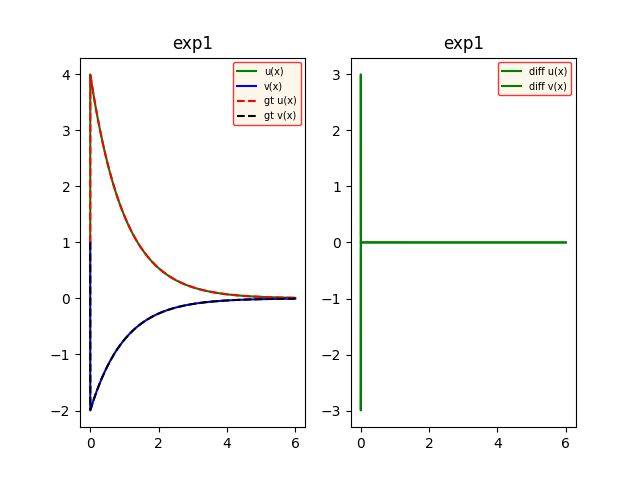
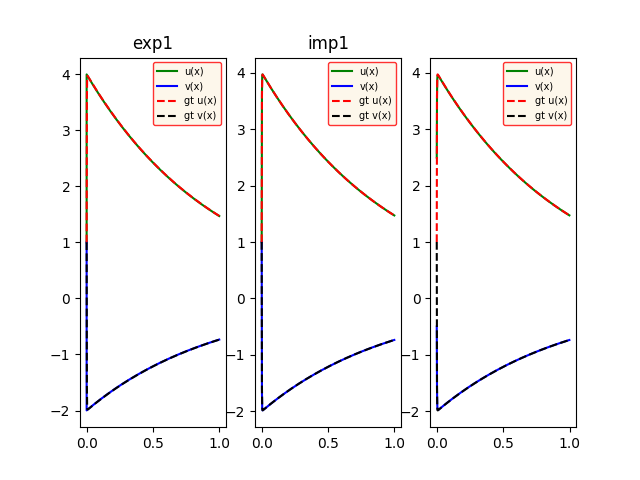
added a newtown method for constant factors

diff --git a/task8/task8.py b/task8/task8.py
@@ -11,11 +11,9 @@ lambda2/lambda1 = 1000 -> система жесткая
 общее решение:
 u(x) = a * 2*exp(-x) + b * exp(-1000*x)
 v(x) = a * -exp(-x) + b * -exp(-1000*x)
-
-пусть при x = 0 u(0) = v(0) = 1
-Тогда а = 2, b = -3
-
 """
+
+# TODO сделать методом Ньютона как в методичке, чтобы сходимость была за одну итерацию
 
 import matplotlib.pyplot as plt
 import numpy as np
@@ -23,9 +21,9 @@ import typing
 
 a, b, c, d = 998, 1998, -999, -1999
 x0, u0, v0 = 0, 1, 1
-lambda_max = 1000  # -1000
+lambda_max = 1000
 
-x_min, x_max = 0, 6
+x_min, x_max = 0, 1
 
 
 class Solution(typing.NamedTuple):
@@ -50,11 +48,11 @@ def dif_v(u: float, v: float) -> float:
 def linear_solution(x: list) -> Solution:
 
     u, v = [], []
-
+    a = u0 + v0
+    b = -(u0 + 2*v0)
     for i in range(len(x)):
-        u.append(4.0 * np.exp(-1 * x[i]) - 3.0 * np.exp(-1000*x[i]))
-        v.append(-2.0 * np.exp(-1 * x[i]) + 3.0 * np.exp(-1000*x[i]))
-
+        u.append(2.0 * a * np.exp(-1 * x[i]) + b * np.exp(-1000*x[i]))
+        v.append(-1.0 * a * np.exp(-1 * x[i]) - b * np.exp(-1000*x[i]))
     return Solution(name='gt', u=u, v=v, x=x)
 
 
@@ -63,10 +61,8 @@ def explicit_first_scheme() -> Solution:
     y_n+1 = y_n + h*f(x_n, y_n)
     """
     x, u, v = [x0], [u0], [v0]
-
     n = lambda_max * x_max
     h = np.float64(x_max) / np.float64(n)
-
     for i in range(n+1):
         u.append(u[i] + h * dif_u(u=u[i], v=v[i]))
         v.append(v[i] + h * dif_v(u=u[i], v=v[i]))
@@ -95,46 +91,68 @@ def implicit_first_scheme() -> Solution:
     for i in range(num_steps):
         y.append(C * y[i])
 
-    # y = [(y[i][0].item(), y[i][1].item()) for i in range(len(y))]
-    # print(y[40][0])
-
     u = [np.float64(y[i][0]) for i in range(len(y))]
     v = [np.float64(y[i][1]) for i in range(len(y))]
 
     return Solution(name='imp1', u=u, v=v, x=x)
 
 
-def run() -> None:
-    fig, axs = plt.subplots(nrows=1, ncols=2)
+def newtown():
+    """
+    f = 998u + 1998v
+    g = -999u - 1999v
+    """
+    f_u, f_v, g_u, g_v = 998, 1998, -999, -1999
+    n = lambda_max * x_max
+    h = np.float64(x_max) / np.float64(n)
+    x = np.arange(x_min, x_max, h)
+    E = np.eye(2)
+    J = np.matrix([[f_u, f_v], [g_u, g_v]])   # constant
+    A = np.linalg.inv(E - h*J)
 
-    solution = explicit_first_scheme()
-    axs[0].plot(solution.x, solution.u, label='u(x)', color='green')
-    axs[0].plot(solution.x, solution.v, label='v(x)', color='blue')
-    gt = linear_solution(solution.x)
+    u, v = [u0], [v0]
+
+    for i in range(len(x)):
+        res = np.matrix([[u[i]], [v[i]]]) + A * np.matrix([[h * dif_u(u=u[i], v=v[i])], [h * dif_v(u=u[i], v=v[i])]])
+        u.append(res[0, 0])
+        v.append(res[1, 0])
+    return Solution(name='Newtown', x=x, u=u, v=v)
+
+
+def run() -> None:
+    fig, axs = plt.subplots(nrows=1, ncols=3)
+
+    solution_exp = explicit_first_scheme()
+    axs[0].plot(solution_exp.x, solution_exp.u, label='u(x)', color='green')
+    axs[0].plot(solution_exp.x, solution_exp.v, label='v(x)', color='blue')
+    gt = linear_solution(solution_exp.x)
     axs[0].plot(gt.x, gt.u, label='gt u(x)', color='red', linestyle='dashed')
     axs[0].plot(gt.x, gt.v, label='gt v(x)', color='black', linestyle='dashed')
-    axs[0].set(title=solution.name)
+    axs[0].set(title=solution_exp.name)
     axs[0].legend(fontsize=7, ncol=1, facecolor='oldlace', edgecolor='r')
-    axs[1].plot(solution.x, np.array(gt.u)-np.array(solution.u), label='diff u(x)', color='green')
-    axs[1].plot(solution.x, np.array(gt.v) - np.array(solution.v), label='diff v(x)', color='green')
-    axs[1].set(title=solution.name)
+
+    solution_imp = implicit_first_scheme()
+    axs[1].plot(solution_imp.x, solution_imp.u, label='u(x)', color='green')
+    axs[1].plot(solution_imp.x, solution_imp.v, label='v(x)', color='blue')
+    gt = linear_solution(solution_imp.x)
+    axs[1].plot(gt.x, gt.u, label='gt u(x)', color='red', linestyle='dashed')
+    axs[1].plot(gt.x, gt.v, label='gt v(x)', color='black', linestyle='dashed')
+    axs[1].set(title=solution_imp.name)
     axs[1].legend(fontsize=7, ncol=1, facecolor='oldlace', edgecolor='r')
+
+    solution_newtown = newtown()
+    axs[2].plot(solution_newtown.x, solution_newtown.u[1:], label='u(x)', color='green')
+    axs[2].plot(solution_newtown.x, solution_newtown.v[1:], label='v(x)', color='blue')
+    gt = linear_solution(solution_newtown.x)
+    axs[2].plot(gt.x, gt.u, label='gt u(x)', color='red', linestyle='dashed')
+    axs[2].plot(gt.x, gt.v, label='gt v(x)', color='black', linestyle='dashed')
+    # plt.set(title=solution_newtown.name)
+    axs[2].legend(fontsize=7, ncol=1, facecolor='oldlace', edgecolor='r')
+    # plt.savefig('task8/task8_newtown.png')
+
     plt.savefig('task8/task8_exp1.png')
     plt.close()
 
-    fig, axs = plt.subplots(nrows=1, ncols=2)
-    solution = implicit_first_scheme()
-    axs[0].plot(solution.x, solution.u, label='u(x)', color='green')
-    axs[0].plot(solution.x, solution.v, label='v(x)', color='blue')
-    gt = linear_solution(solution.x)
-    axs[0].plot(gt.x, gt.u, label='gt u(x)', color='red', linestyle='dashed')
-    axs[0].plot(gt.x, gt.v, label='gt v(x)', color='black', linestyle='dashed')
-    axs[0].set(title=solution.name)
-    axs[0].legend(fontsize=7, ncol=1, facecolor='oldlace', edgecolor='r')
-    axs[1].plot(solution.x, np.array(gt.u) - np.array(solution.u), label='diff u(x)', color='green')
-    axs[1].plot(solution.x, np.array(gt.v) - np.array(solution.v), label='diff v(x)', color='green')
-    axs[1].set(title=solution.name)
-    axs[1].legend(fontsize=7, ncol=1, facecolor='oldlace', edgecolor='r')
-    plt.savefig('task8/task8_imp1.png')
-    plt.close()
+    # results = newtown()
+    # print(results)
 

diff --git a/main.py b/main.py
@@ -11,4 +11,4 @@ from task10 import task10
 
 if __name__ == '__main__':
 
-    task7.run()
+    task8.run()
